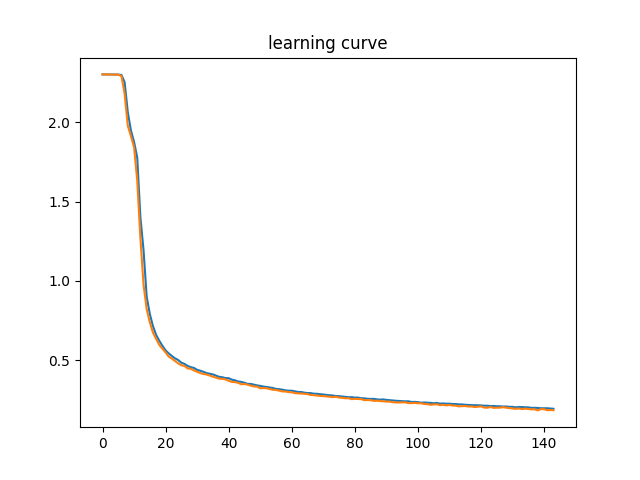
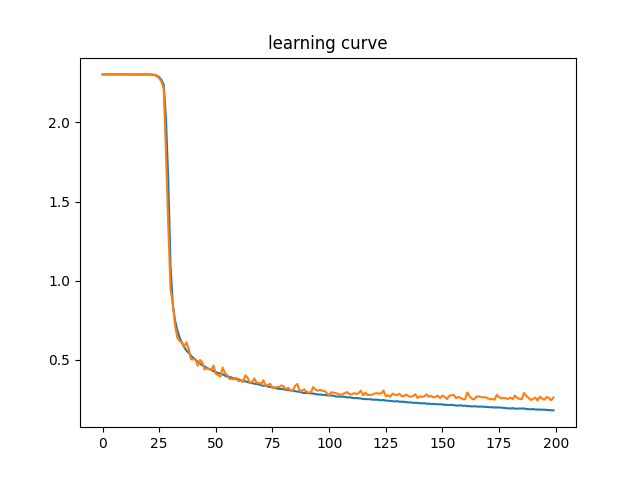
modify Q9

diff --git a/github-maron/Chap4/Q9/Q9.py b/github-maron/Chap4/Q9/Q9.py
@@ -104,20 +104,18 @@ for epoch in range(epoch_num):
     optimizer.zero_grad() 
     outputs = net(inputs) 
     val_loss = criterion(outputs, labels) 
-    val_loss.backward() 
-    optimizer.step() 
     val_running_loss[epoch] += val_loss.item()
         
   running_loss[epoch] /= len(train_loader)
   val_running_loss[epoch] /= len(val_loader)
 
-  if val_running_loss[epoch] > best_score:
+  if running_loss[epoch] > best_score:
     count += 1
     print("count:", count)
 
   else:
     count = 0
-    best_score = val_running_loss[epoch]
+    best_score = running_loss[epoch]
 
   if count >= stop:
     print("early stopping")
@@ -160,7 +158,8 @@ with torch.no_grad():
     images, labels = data[0].to(device), data[1].to(device)
     outputs = net(images)
     _, pred_label = torch.max(outputs.data, 1)
-    
+
+  #ここの部分でfor文を回さないようにsumを使う  
   for j in range(len(pred_label)):
     if pred_label[j].int() == labels[j]:
       correct += 1  
